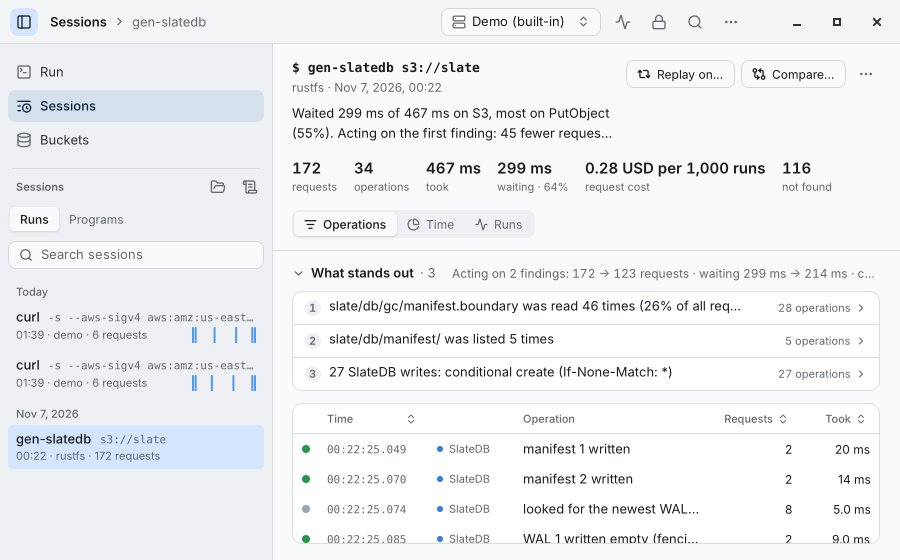
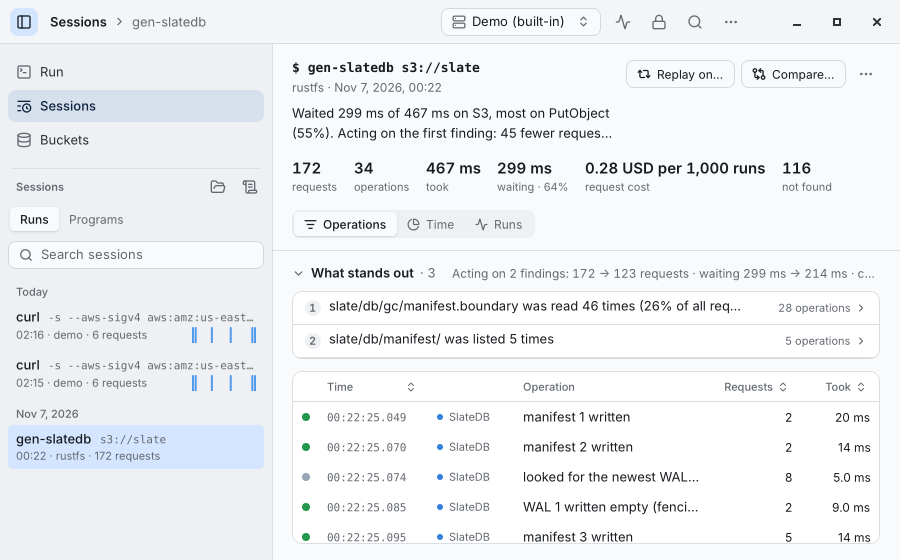
A short window keeps two findings in view, so the operations keep their rows
Claude-Session: https://claude.ai/code/session_01Ua4GqFtG2G7i5p8kPo7LNV

diff --git a/app/src/screens/Sessions.tsx b/app/src/screens/Sessions.tsx
@@ -269,7 +269,8 @@ export function SessionPane(props: { path: string; others: () => SessionInfo[]; 
       filter={filter()}
       onFilter={(f) => filter.set(f)}
       onOpenCode={(place) => api.sessions.openCode(props.path, place).catch(report)}
-      maxHeight={Math.max(104, Math.round(box().h * 0.3))}
+      // a short window keeps two findings in view (the rest scroll): the operations need their rows
+      maxHeight={box().h < 600 ? 68 : Math.max(104, Math.round(box().h * 0.3))}
     />
   );
   /** When: the session's requests over its time, full width, the findings' numbers where they begin; a press picks a slice. */
